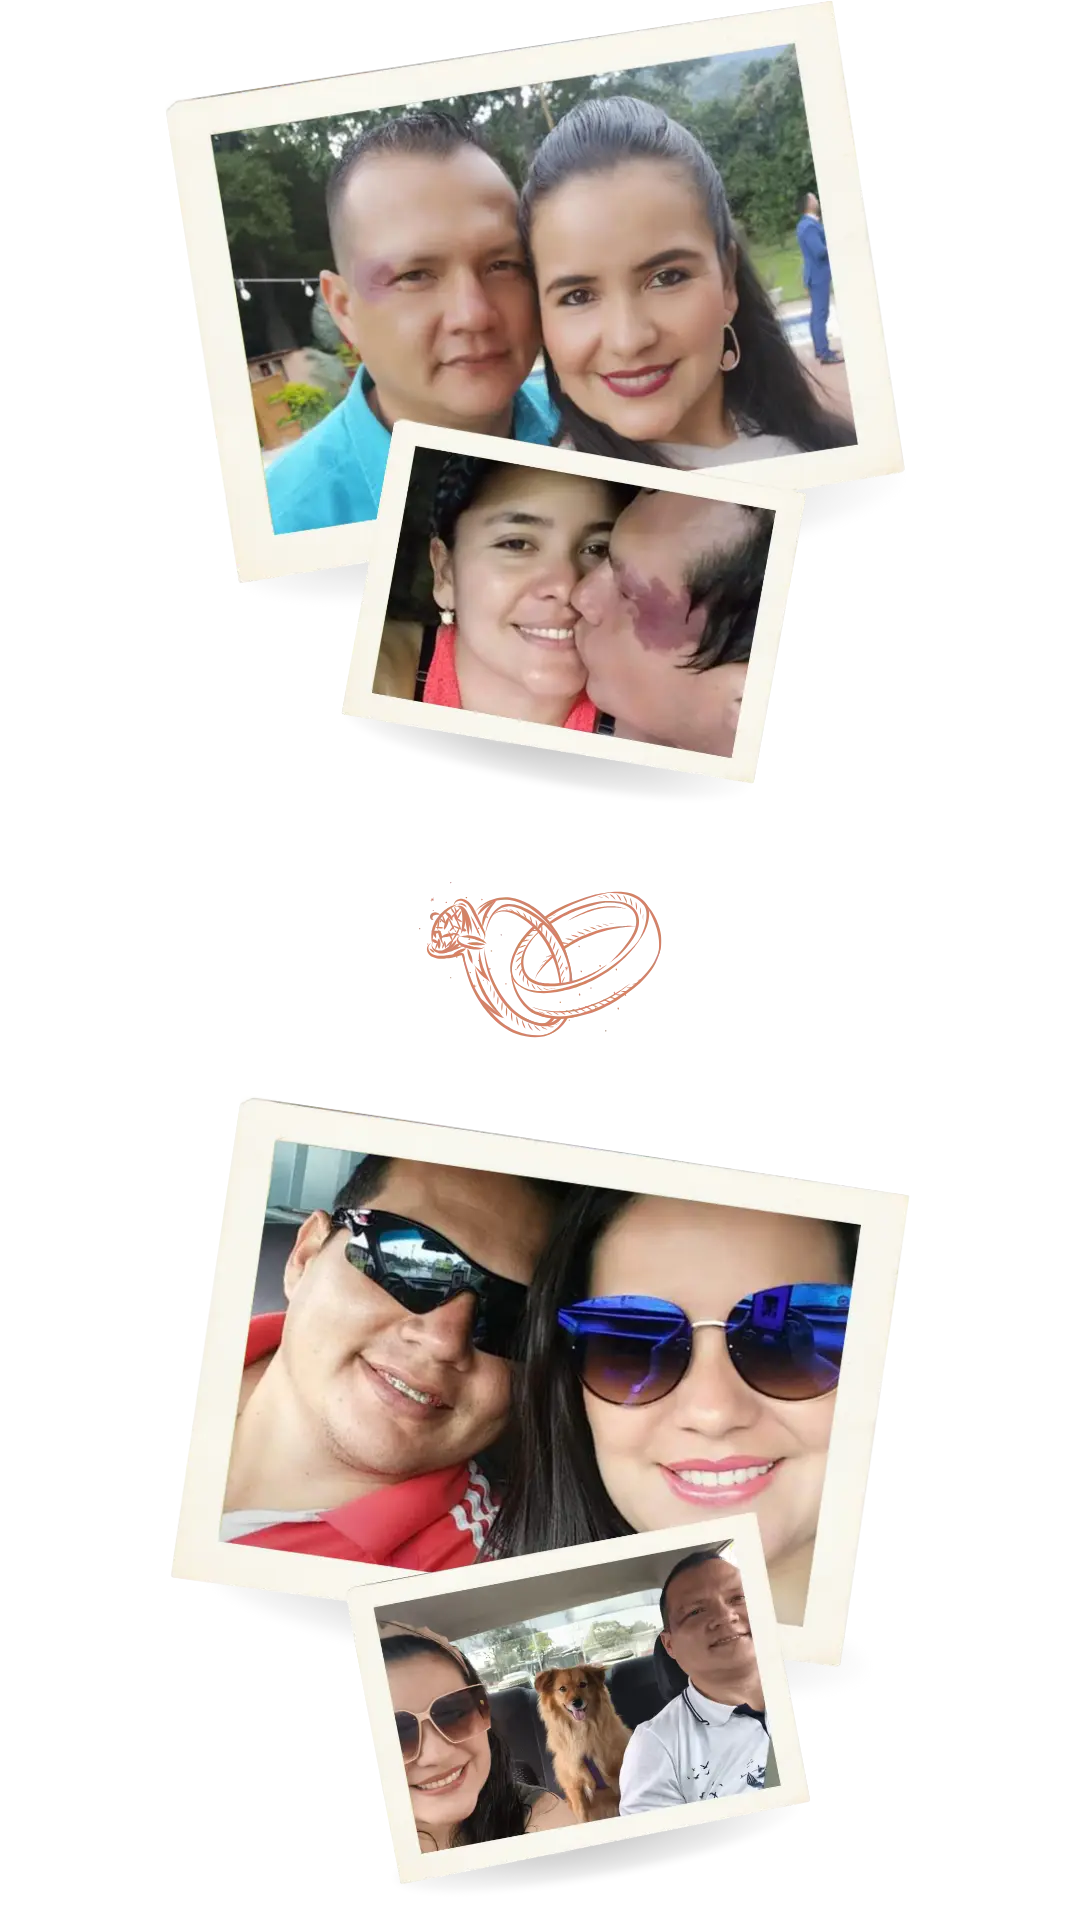
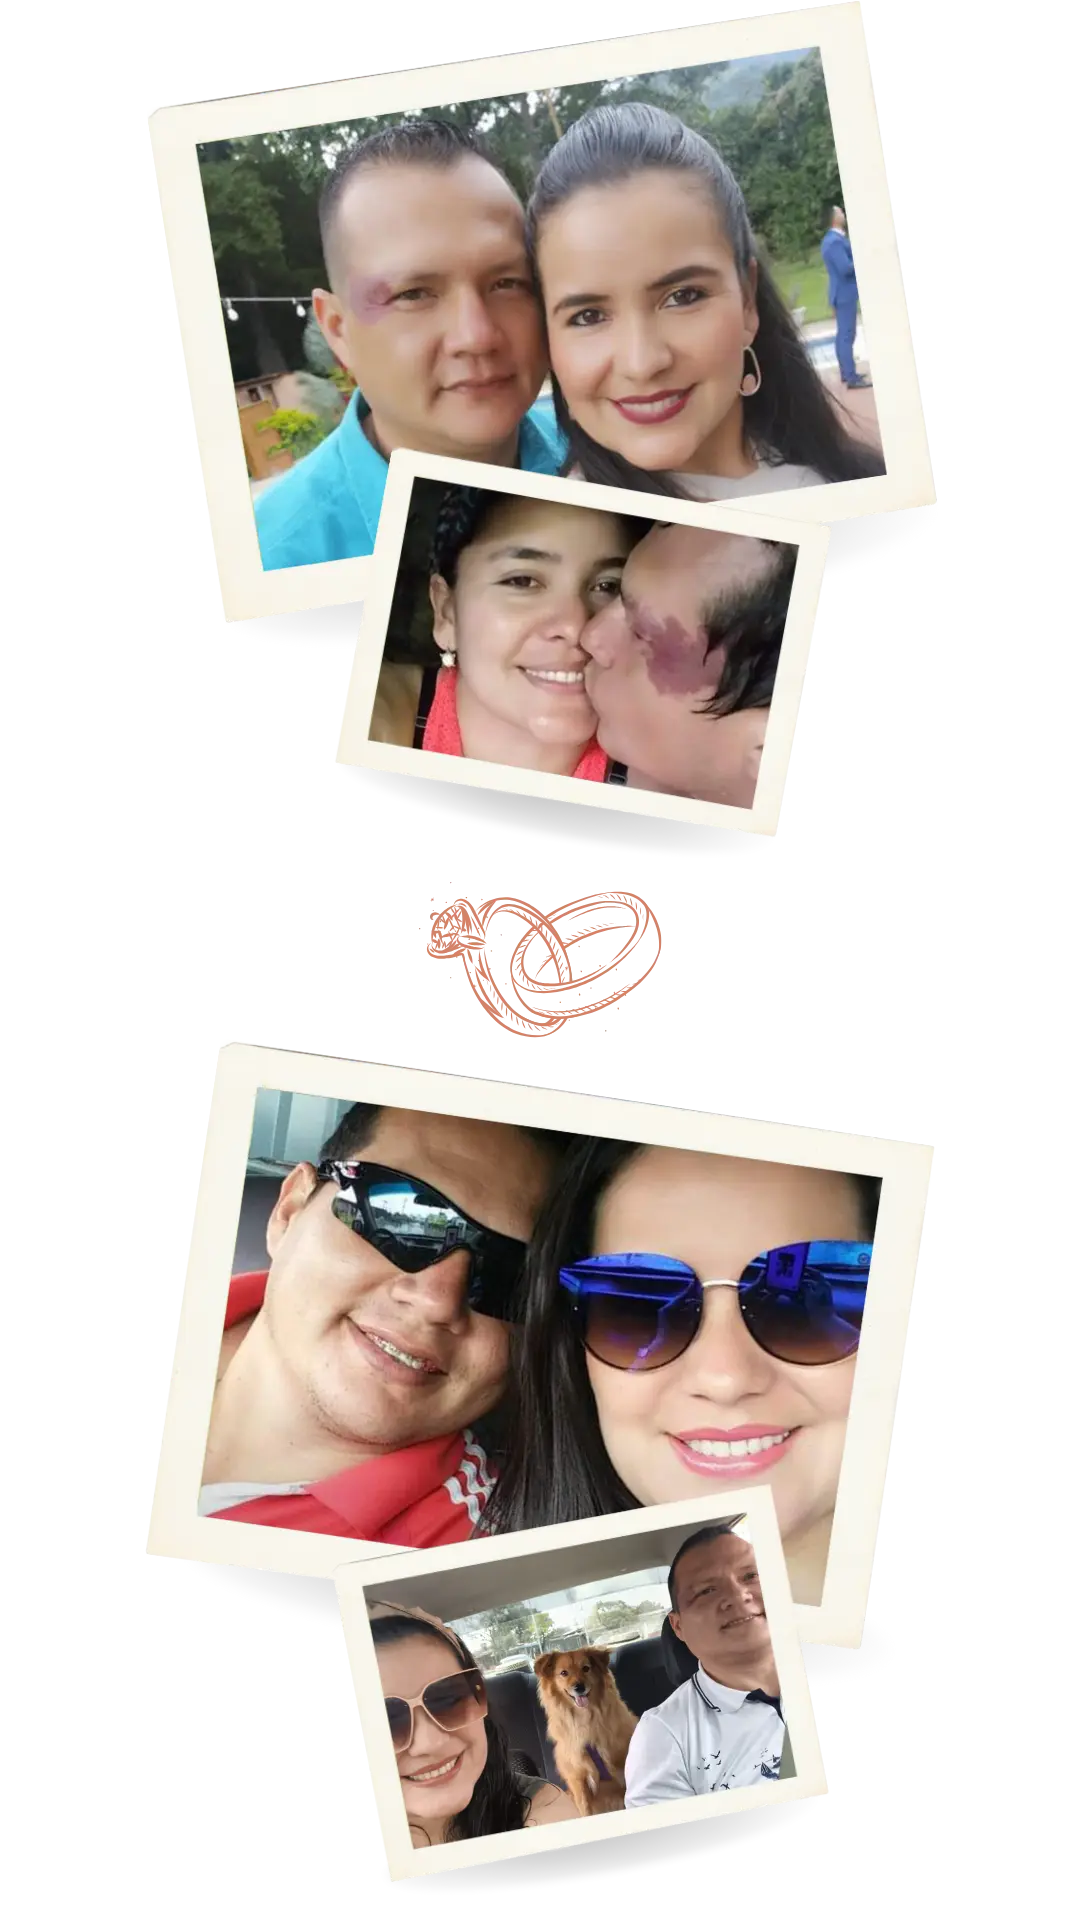
Siguiente
Nueva versión

diff --git a/src/app/app.component.scss b/src/app/app.component.scss
@@ -88,7 +88,7 @@
         padding: 20px 15px;
 
         &::before {
-            background-image: url("../assets/images/wedding-background-mobile-c2.webp");
+            background-image: url("../assets/images/wedding-background-mobile-c3.webp");
         }
     }
 

diff --git a/src/app/components/file-upload/file-upload.component.scss b/src/app/components/file-upload/file-upload.component.scss
@@ -6,6 +6,7 @@
     max-width: 600px;
     margin: 0 auto;
     padding: 20px;
+    opacity: 0.9;
     background-color: #fff;
     border-radius: 10px;
     box-shadow: 0 5px 20px rgba(0, 0, 0, 0.1);
